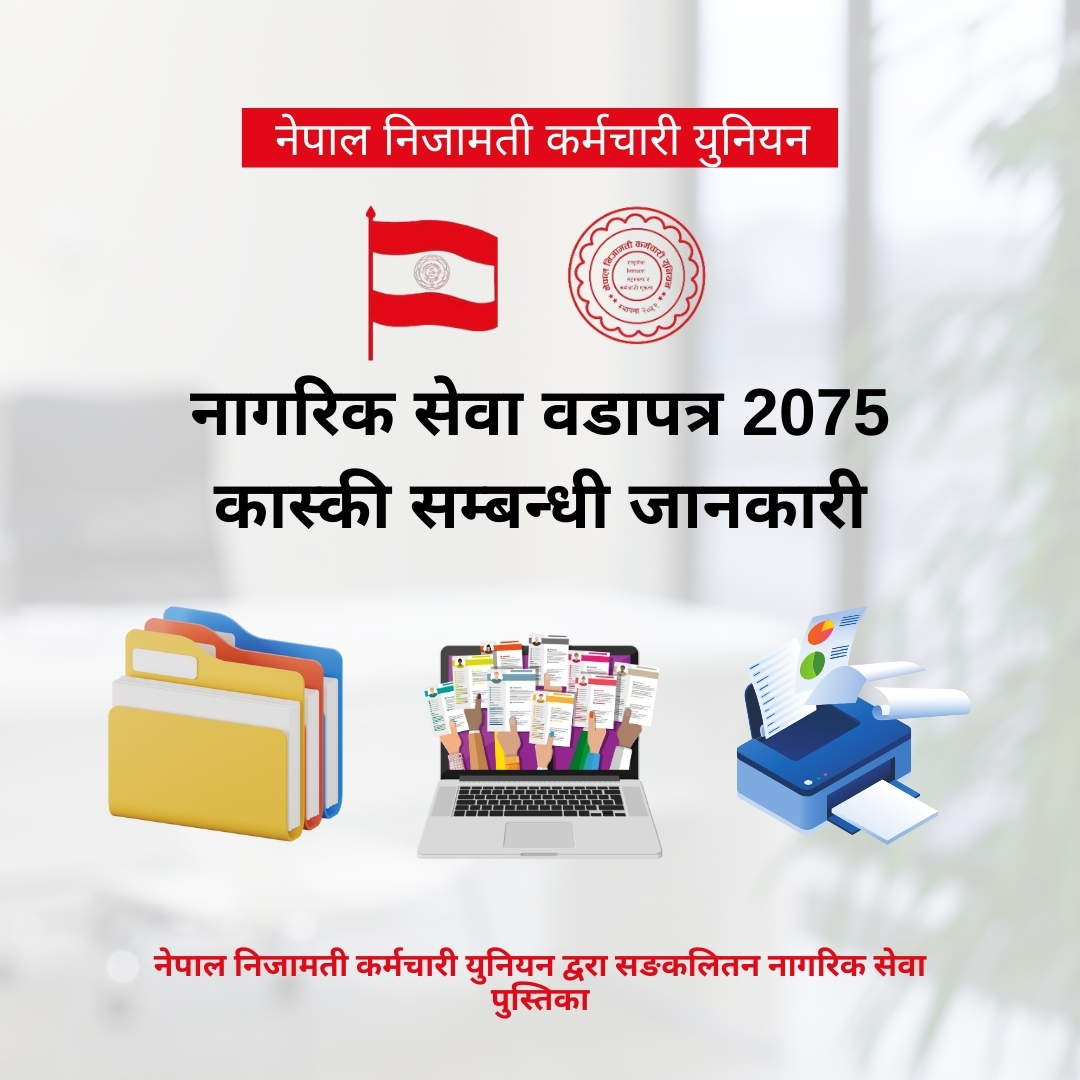
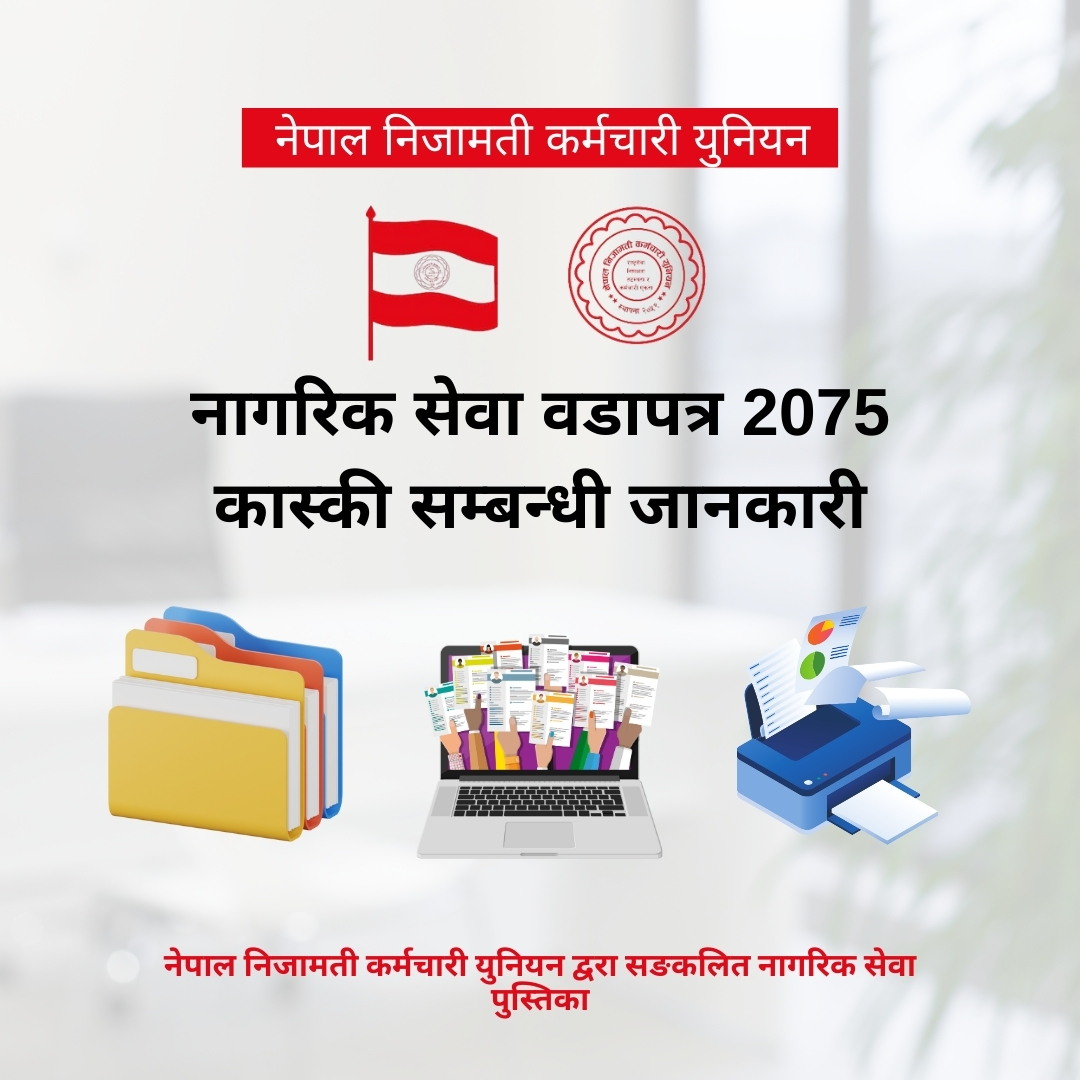
update all pages and modify

Changed region(s): [[0.1222, 0.8556, 0.8556, 0.9167]]

diff --git a/index.html b/index.html
@@ -24,9 +24,10 @@
 
     <nav class="navbar navbar-expand-lg navbar-light bg-light">
         <div class="container-fluid">
-            <a class="navbar-brand" href="#"><img src="assets/Uploads/logo png.png" width="70" height="70" alt=""></a> <button
-                class="navbar-toggler" type="button" data-bs-toggle="collapse" data-bs-target="#navbarSupportedContent"
-                aria-controls="navbarSupportedContent" aria-expanded="false" aria-label="Toggle navigation">
+            <a class="navbar-brand" href="#"><img src="assets/Uploads/logo png.png" width="70" height="70" alt=""></a>
+            <button class="navbar-toggler" type="button" data-bs-toggle="collapse"
+                data-bs-target="#navbarSupportedContent" aria-controls="navbarSupportedContent" aria-expanded="false"
+                aria-label="Toggle navigation">
                 <span class="navbar-toggler-icon"></span>
             </button>
             <div class="collapse navbar-collapse justify-content-center" id="navbarSupportedContent">
@@ -51,9 +52,15 @@
 
     <section>
         <div class="container pt-5">
-            <div class="d-flex justify-content-center">
-                <a class="navbar-brand" href="#"><img src="assets/Uploads/logo-png.png" width="70" height="60" alt=""></a>
-                <a class="navbar-brand" href="#"><img src="assets/Uploads/logo png.png" width="70" height="70" alt=""></a>
+            <div class="d-flex justify-content-around ">
+                <div>
+                    <a class="navbar-brand" href="#"><img src="assets/Uploads/logo-png.png" width="70" height="60"
+                            alt=""></a>
+                </div>
+                <div>
+                    <a class="navbar-brand" href="#"><img src="assets/Uploads/logo png.png" width="70" height="70"
+                            alt=""></a>
+                </div>
             </div>
         </div>
     </section>
@@ -62,7 +69,7 @@
         <div class="container py-5">
             <div class="text-center pb-5">
                 <h3>नागरिक वडापत्र सम्बन्धित जानकारी </h3>
-                <p>नेपाल निजामती कर्मचारी युनियन द्वरा सङकलितन नागरिक सेवा पुस्तिका</p>
+                <p>नेपाल निजामती कर्मचारी युनियन द्वरा सङकलित नागरिक सेवा पुस्तिका</p>
             </div>
             <dov class="row">
                 <div class="col-lg-3 col-md-4 col-sm-6 mb-3">
@@ -72,7 +79,8 @@
                                 class="card-img-top" alt="...">
                             <div class="card-body">
                                 <h5 class="card-title">मालपोत सम्बन्धी </h5>
-                                <a href="assets/Uploads/मालपोत.pdf" target="_blank" class="btn btn-danger btn-sm">Open Now</a>
+                                <a href="assets/Uploads/मालपोत.pdf" target="_blank" class="btn btn-danger btn-sm">Open
+                                    Now</a>
                             </div>
                         </div>
                     </a>
@@ -83,7 +91,8 @@
                             <img class="w-100" src="assets/Uploads/2.jpg" width="100%" style="object-fit: fit;">
                             <div class="card-body">
                                 <h5 class="card-title">नागरिक सेवा वडापत्र 2075 कास्की</h5>
-                                <a href="assets/Uploads/नागरिक सेवा वडापत्र2075 कास्की.pdf" class="btn btn-danger btn-sm">Open
+                                <a href="assets/Uploads/नागरिक सेवा वडापत्र2075 कास्की.pdf"
+                                    class="btn btn-danger btn-sm">Open
                                     Now</a>
                             </div>
                         </div>
@@ -95,7 +104,8 @@
                             <img class="w-100" src="assets/Uploads/4.jpg" width="100%" style="object-fit: fit;">
                             <div class="card-body">
                                 <h5 class="card-title">नापी सम्बन्धित नागरिक वडापत्र</h5>
-                                <a href="assets/Uploads/नापी कार्यालय कास्की.pdf" class="btn btn-danger btn-sm">Open Now</a>
+                                <a href="assets/Uploads/नापी कार्यालय कास्की.pdf" class="btn btn-danger btn-sm">Open
+                                    Now</a>
                             </div>
                         </div>
                     </a>
@@ -103,11 +113,12 @@
                 <div class="col-lg-3 col-md-4 col-sm-6 mb-3">
                     <a href="assets/Uploads/नागरिक_वडापत्र (1).pdf" class="text-decoration-none">
                         <div class="card">
-                            <img class="w-100" src="assets/Uploads/2.jpg"width="100%" style="object-fit: fit;"
+                            <img class="w-100" src="assets/Uploads/2.jpg" width="100%" style="object-fit: fit;"
                                 class="card-img-top" alt="...">
                             <div class="card-body">
                                 <h5 class="card-title">जिल्ला प्रशासन नागरिक वडापत्र </h5>
-                                <a href="assets/Uploads/नागरिक_वडापत्र (1).pdf" class="btn btn-danger btn-sm">Open Now</a>
+                                <a href="assets/Uploads/नागरिक_वडापत्र (1).pdf" class="btn btn-danger btn-sm">Open
+                                    Now</a>
                             </div>
                         </div>
                     </a>

diff --git a/contact.html b/contact.html
@@ -43,48 +43,54 @@
         </div>
     </nav>
 
-   <section class="" style="background: rgb(232, 203, 203);">
-    <div class="container py-5">
-        <nav style="--bs-breadcrumb-divider: '>';" aria-label="breadcrumb">
-            <ol class="breadcrumb">
-                <li class="breadcrumb-item"><a href="index.html">Home</a></li>
-                <li class="breadcrumb-item active" aria-current="page">Contact</li>
-            </ol>
-        </nav>
-    </div>
-   </section>
+    <section>
+        <div class="container pt-5">
+            <div class="d-flex justify-content-around ">
+                <div>
+                    <a class="navbar-brand" href="#"><img src="assets/Uploads/logo-png.png" width="70" height="60"
+                            alt=""></a>
+                </div>
+                <div>
+                    <a class="navbar-brand" href="#"><img src="assets/Uploads/logo png.png" width="70" height="70"
+                            alt=""></a>
+                </div>
+            </div>
+        </div>
+    </section>
 
     <section>
         <div class="container pt-5">
             <div class="d-flex justify-content-center">
-                <a class="navbar-brand" href="#"><img src="assets/Uploads/logo-png.png" width="70" height="60" alt=""></a>
-                <a class="navbar-brand" href="#"><img src="assets/Uploads/logo png.png" width="70" height="70" alt=""></a>
+                <a class="navbar-brand" href="#"><img src="assets/Uploads/logo-png.png" width="70" height="60"
+                        alt=""></a>
+                <a class="navbar-brand" href="#"><img src="assets/Uploads/logo png.png" width="70" height="70"
+                        alt=""></a>
             </div>
         </div>
     </section>
 
     <section>
         <div class="container py-5">
-           
+
             <div class="row">
                 <div class="col-lg-6 col-md-6 col-sm-12">
                     <div class="card my-2 p-2">
-                       <h4>Phone : +977 980000000</h4>
+                        <h4>Phone : +977 980000000</h4>
                     </div>
                     <div class="card my-2 p-2">
-                       <h4>Email : example@gmail.com</h4>
+                        <h4>Email : example@gmail.com</h4>
                     </div>
                     <div class="card my-2 p-2">
-                       <h4>Address : नेपाल निजामती कर्मचारी युनियन पोखरा </h4>
+                        <h4>Address : नेपाल निजामती कर्मचारी युनियन पोखरा </h4>
                     </div>
                 </div>
                 <div class="col-lg-6 col-md-6 col-sm-12">
                     <div class="card">
                         <div class="card-body">
-                            <h5 class="card-title">नेपाल निजामती  कर्मचारी  युनियन  </h5>
+                            <h5 class="card-title">नेपाल निजामती कर्मचारी युनियन </h5>
                             <h6 class="card-subtitle mb-2 text-muted ">प्रदेश कार्य समिति गण्डकी नेपाल</h6>
-                            <p class="card-text">नेपाल निजामती कर्मचारी युनियन द्वरा सङकलितन नागरिक सेवा पुस्तिका</p>
-                            
+                            <p class="card-text">नेपाल निजामती कर्मचारी युनियन द्वरा सङकलित नागरिक सेवा पुस्तिका</p>
+
                         </div>
                     </div>
                 </div>

diff --git a/about.html b/about.html
@@ -58,9 +58,15 @@
 
     <section>
         <div class="container pt-5">
-            <div class="d-flex justify-content-center">
-                <a class="navbar-brand" href="#"><img src="assets/Uploads/logo-png.png" width="70" height="60" alt=""></a>
-                <a class="navbar-brand" href="#"><img src="assets/Uploads/logo png.png" width="70" height="70" alt=""></a>
+            <div class="d-flex justify-content-around ">
+                <div>
+                    <a class="navbar-brand" href="#"><img src="assets/Uploads/logo-png.png" width="70" height="60"
+                            alt=""></a>
+                </div>
+                <div>
+                    <a class="navbar-brand" href="#"><img src="assets/Uploads/logo png.png" width="70" height="70"
+                            alt=""></a>
+                </div>
             </div>
         </div>
     </section>
@@ -79,7 +85,7 @@
                         <div class="card-body">
                             <h5 class="card-title">नेपाल निजामती कर्मचारी युनियन </h5>
                             <h6 class="card-subtitle mb-2 text-muted ">प्रदेश कार्य समिति गण्डकी नेपाल</h6>
-                            <p class="card-text">नेपाल निजामती कर्मचारी युनियन द्वरा सङकलितन नागरिक सेवा पुस्तिका</p>
+                            <p class="card-text">नेपाल निजामती कर्मचारी युनियन द्वरा सङकलित नागरिक सेवा पुस्तिका</p>
 
                         </div>
                     </div>

diff --git a/assets/css/style.css b/assets/css/style.css
@@ -114,4 +114,7 @@
       width: 100%;
       text-align: left;
     }
+
+   
+    
   }
